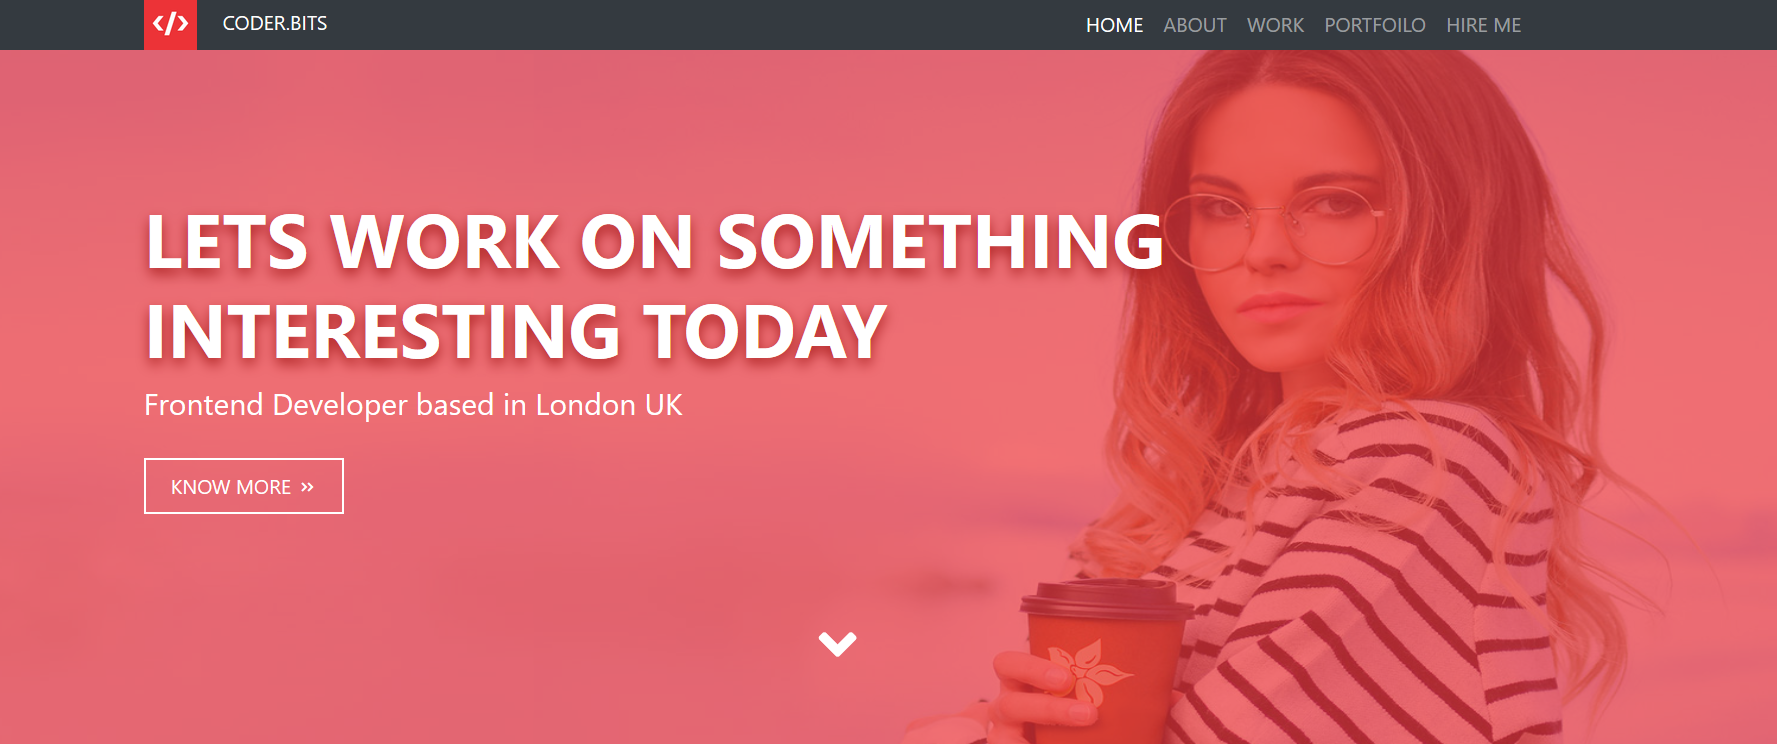
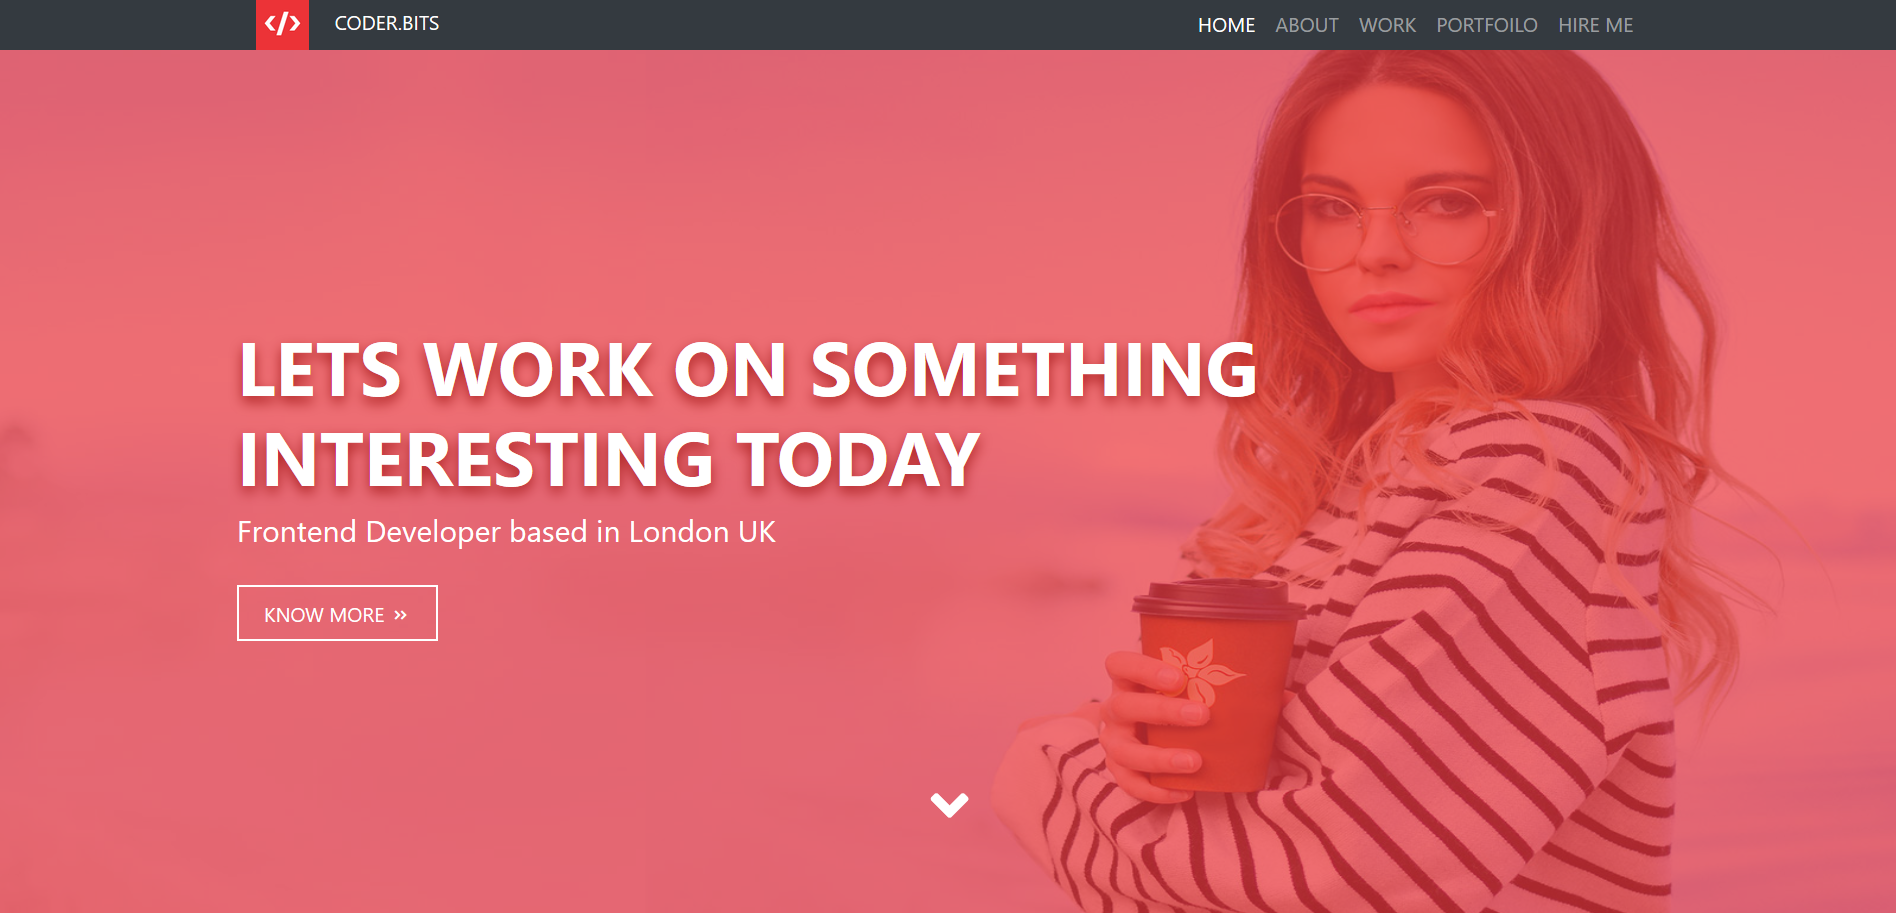
header data & img size

Changed region(s): [[0.0, 0.0, 1.0, 1.0]]

diff --git a/index.html b/index.html
@@ -82,11 +82,14 @@
         <header id="header">
             <div id="particles-js">
                 <div id="headerData">
-                    <div class="d-flex justify-content-center align-items-center text-center">
+                    <div class="d-flex justify-content-center text-center">
                         <div>
-                            <h1 class="wow fadeIn introName" data-wow-duration="2s" data-wow-delay="1.5s">Hi, I'm Baher Essam</h1>
+                            <div class="headerImg mb-2">
+                                <img src="Images/DSC_0152.jpg" alt="" class="img-fluid">
+                            </div>
+                            <h1 class="wow fadeIn introName" data-wow-duration="2s" data-wow-delay="1.5s"><span>Hi,</span> I'm Baher Essam</h1>
                             <p class="wow fadeInRight" data-wow-duration="1.5s" data-wow-delay="2s">I'm a Web developer / designer</p>
-                            <a href="#" class="wow fadeInLeft" data-wow-duration="1s" data-wow-delay="2.5s">kNOW MORE !</a>
+                            <a href="#" class=" btn btn-outline-info wow fadeInUp" data-wow-duration="1s" data-wow-delay="2.5s">kNOW MORE !</a>
                         </div>
                     </div>
                    
@@ -180,7 +183,17 @@
         </section>
         <!--end of skills section-->
 
-        
+
+
+        <!--work section-->
+        <section id="work">
+            <div>
+                <h1 class="text-center">{What I Do}</h1>
+            </div>
+        </section>
+        <!--end of work section-->
+
+
         <!--Portfolio section-->
         <section id="portfolio">
             <div class="container mixit">
@@ -231,7 +244,7 @@
                     <div class="col-md-8 col-sm-12">
                         <div class="project my-2 wow fadeInRight mix  webDevelopment webDesign" data-wow-duration="0.8s" data-wow-delay="1.1s" data-order="4">
                             <div class="projectImg">
-                                <img src="images/portfolio-4.png" class="img-fluid" alt="project">
+                                <img src="images/portfolio-4.jpg" class="img-fluid" alt="project">
                             </div>
                             <div class="projectOverlay"></div>
                             <div class="projectOverlay1"></div>

diff --git a/css/main.css b/css/main.css
@@ -97,23 +97,52 @@ body {font-family: 'segoe ui light'; overflow: hidden;}
 
 /*start of Header Section*/
 #header {
-  background-image: url(../Images/albert-dera.jpg);
-  background-size: cover;
+background-color: rgb(50, 50, 50);
   color: #fff;
   position: relative;
   background-attachment: fixed;
-  clip-path: polygon(50% 0%, 100% 0, 100% 90%, 50% 96.5%, 0 90%, 0 0);
+  clip-path: polygon( 100% 0, 100% 92%, 50% 100%, 0 92%, 0 0);
 }
 #headerData
 {
-  /*transform -50*2*/
   position: absolute;
-  top: 50%;
+  top: 30%;
   left: 0;
   right: 0;
   bottom: 0;
 }
 .introName {font-family: 'Orbitron', sans-serif;}
+
+.headerImg 
+{
+  width: 12%;
+  margin: 0 auto;
+  overflow: hidden;
+  clip-path: polygon(50% 0%, 100% 25%, 100% 75%, 50% 90%, 0% 75%, 0% 25%);
+}
+.headerImg img
+{
+  transform: scale(1.75)translateY(20%);
+  -webkit-transform: scale(1.75)translateY(20%);
+  -moz-transform: scale(1.75)translateY(20%);
+  -ms-transform: scale(1.75)translateY(20%);
+  -o-transform: scale(1.75)translateY(20%);
+}
+#headerData > div > div > h1 > span
+{
+  color: #EB6666;
+}
+#headerData > div > div > a
+{
+  border: solid 1px #9e9e9e;
+  color: #fff;
+  font-weight: 500;
+}
+#headerData > div > div > a:hover
+{
+  background-color: #EB6666;
+  border-color: #EB6666;
+}
 /*end of Header Section*/
 
 
